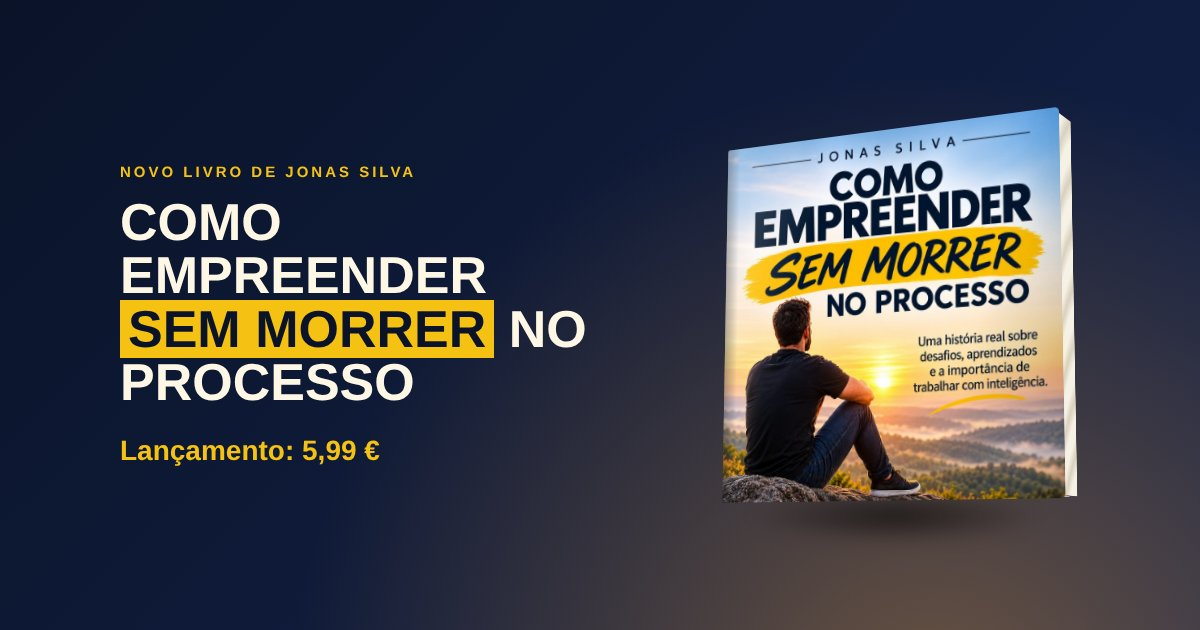
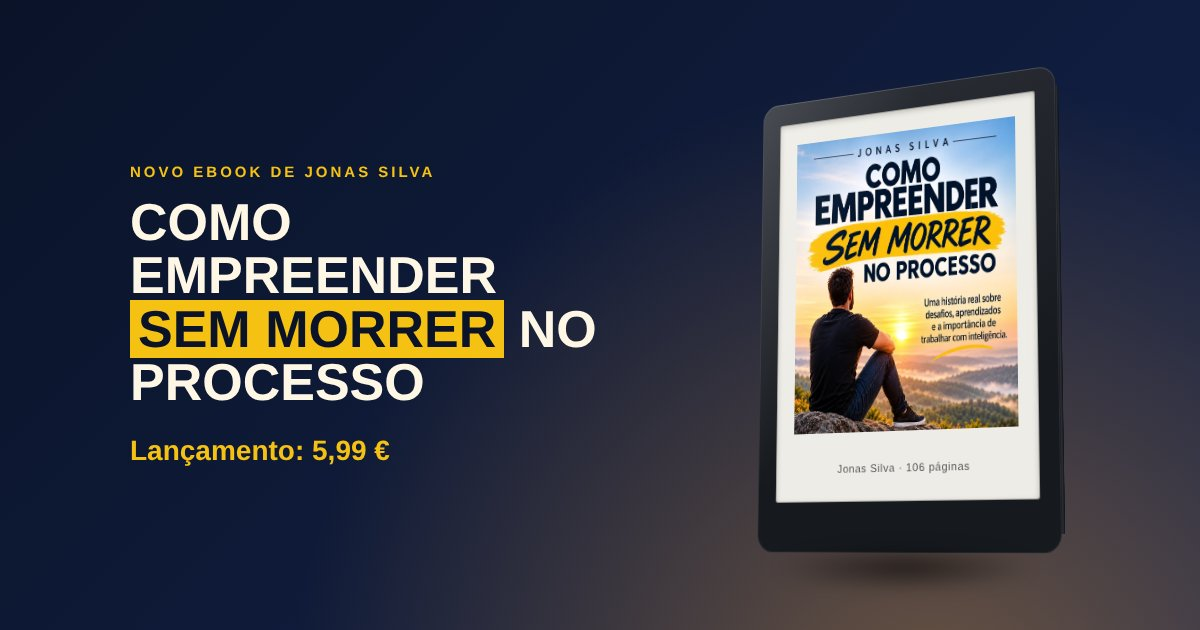
Livro: leitor digital no lugar do livro físico, sem secção de folhear
Claude-Session: https://claude.ai/code/session_01GxBHDtriGwGTrpEwiSHekm

Changed region(s): [[0.5858, 0.1206, 0.925, 0.9349], [0.0925, 0.2413, 0.4933, 0.6333], [0.0925, 0.6937, 0.3392, 0.754]]

diff --git a/livro/index.html b/livro/index.html
@@ -37,7 +37,8 @@ p{margin:0}
 .eyebrow{font-family:var(--ui);font-size:.74rem;font-weight:800;letter-spacing:.2em;text-transform:uppercase;color:var(--sun)}
 
 /* Abertura */
-.hero{background:linear-gradient(180deg,var(--night) 0%,var(--night-2) 100%)}
+.hero{min-height:calc(100vh - 70px);min-height:calc(100svh - 70px);display:flex;align-items:center;background:radial-gradient(circle at 75% 110%,rgba(255,170,60,.22),transparent 50%),linear-gradient(180deg,var(--night) 0%,var(--night-2) 100%)}
+.hero .wrap{width:100%}
 .hero .wrap{display:grid;grid-template-columns:minmax(0,1fr) minmax(0,1fr);gap:clamp(24px,5vw,56px);align-items:center;padding-block:clamp(36px,6vw,72px)}
 .copy{display:flex;flex-direction:column;gap:16px;min-width:0}
 .copy h1{font-size:clamp(2rem,4.4vw,3.2rem);font-weight:900;text-transform:uppercase;letter-spacing:-.015em;line-height:1}
@@ -54,72 +55,47 @@ p{margin:0}
 .btn:hover{transform:translateY(-2px);box-shadow:0 14px 30px -12px rgba(245,194,20,.85)}
 .btn:focus-visible{outline:3px solid var(--cream);outline-offset:3px}
 
-/* Livro 3D */
-.stage{display:flex;flex-direction:column;align-items:center;gap:18px;min-width:0;user-select:none;-webkit-user-select:none}
-.scene{--w:min(300px,64vw);--d:38px;position:relative;width:var(--w);height:var(--w);perspective:1500px;cursor:grab;touch-action:pan-y;transition:transform 1s cubic-bezier(.6,0,.2,1)}
+/* Leitor digital 3D */
+.stage{display:flex;flex-direction:column;align-items:center;gap:22px;min-width:0;user-select:none;-webkit-user-select:none}
+.scene{--w:min(270px,60vw);--h:calc(var(--w)*1.42);--d:12px;position:relative;width:var(--w);height:var(--h);perspective:1500px;cursor:grab;touch-action:pan-y}
 .scene.drag{cursor:grabbing}
-.scene.open{transform:translateX(24%) scale(.78)}
-.scene:focus-visible{outline:2px dashed var(--sun);outline-offset:14px}
+.scene:focus-visible{outline:2px dashed var(--sun);outline-offset:16px}
 .bk{position:absolute;inset:0;transform-style:preserve-3d;will-change:transform}
 .f{position:absolute;backface-visibility:hidden;-webkit-backface-visibility:hidden}
-.f.front{inset:0;transform-style:preserve-3d;transform-origin:left center;transform:translateZ(calc(var(--d)/2));transition:transform 1s cubic-bezier(.6,0,.2,1)}
-.open .f.front{transform:translateZ(calc(var(--d)/2)) rotateY(-155deg)}
-.f.front img{position:absolute;inset:0;width:100%;height:100%;display:block;border-radius:2px 5px 5px 2px;backface-visibility:hidden;-webkit-backface-visibility:hidden}
-.f.front .gloss{position:absolute;inset:0;border-radius:2px 5px 5px 2px;background:linear-gradient(105deg,rgba(255,255,255,.28) 0%,rgba(255,255,255,0) 28%,rgba(255,255,255,0) 72%,rgba(0,0,0,.18) 100%),linear-gradient(90deg,rgba(0,0,0,.35) 0,rgba(0,0,0,0) 4%);backface-visibility:hidden;-webkit-backface-visibility:hidden;pointer-events:none}
-.f.front .inner{position:absolute;inset:0;background:#f3eee2;transform:rotateY(180deg);backface-visibility:hidden;-webkit-backface-visibility:hidden;border-radius:5px 2px 2px 5px;display:flex;align-items:center;justify-content:center;font-family:var(--display);color:#0f1b33;font-weight:900;font-size:.9rem;letter-spacing:.2em;text-transform:uppercase}
-.f.page{inset:3px 4px 3px 0;transform:translateZ(calc(var(--d)/2 - 2px));background:#fbf8f1;border-radius:0 4px 4px 0;box-shadow:inset 18px 0 24px -16px rgba(0,0,0,.35);display:flex;flex-direction:column;justify-content:center;gap:14px;padding:12%;color:#0f1b33}
-.f.page q{font-family:var(--body);font-style:italic;font-size:1.2rem;line-height:1.4;quotes:"«" "»"}
-.f.page span{font-family:var(--ui);font-size:.72rem;font-weight:800;letter-spacing:.18em;text-transform:uppercase;color:#8a6a00}
-.f.back{inset:0;background:linear-gradient(135deg,#13224a,#0a1328);transform:rotateY(180deg) translateZ(calc(var(--d)/2));border-radius:5px 2px 2px 5px;display:flex;align-items:flex-end;padding:10%;color:var(--sun);font-family:var(--ui);font-weight:800;font-size:.75rem;letter-spacing:.2em}
-.f.spine{top:0;bottom:0;width:var(--d);left:calc(50% - var(--d)/2);transform:rotateY(-90deg) translateZ(calc(var(--w)/2));background:linear-gradient(90deg,#070e1f,#1a2c58 45%,#0d1830);display:flex;align-items:center;justify-content:center}
-.f.spine b{writing-mode:vertical-rl;transform:rotate(180deg);font-family:var(--display);font-weight:900;font-size:.6rem;letter-spacing:.12em;color:#fff;white-space:nowrap}
-.f.spine b i{font-style:normal;color:var(--sun)}
-.f.edge{top:3px;bottom:3px;width:calc(var(--d) - 4px);left:calc(50% - var(--d)/2 + 2px);transform:rotateY(90deg) translateZ(calc(var(--w)/2 - 4px));background:repeating-linear-gradient(90deg,#f6f1e5 0 2px,#d9d0bd 2px 3px)}
-.f.top,.f.bottom{left:0;right:4px;height:calc(var(--d) - 4px);top:calc(50% - var(--d)/2 + 2px);background:repeating-linear-gradient(0deg,#f6f1e5 0 2px,#d9d0bd 2px 3px)}
-.f.top{transform:rotateX(90deg) translateZ(calc(var(--w)/2 - 3px))}
-.f.bottom{transform:rotateX(-90deg) translateZ(calc(var(--w)/2 - 3px))}
-.floor{position:absolute;left:10%;right:10%;bottom:-12%;height:15%;background:radial-gradient(ellipse at center,rgba(0,0,0,.6),transparent 70%);filter:blur(8px);pointer-events:none}
+.f.front{inset:0;border-radius:18px;transform:translateZ(calc(var(--d)/2));background:linear-gradient(160deg,#2b2f36,#16191e 70%);box-shadow:inset 0 0 0 1px rgba(255,255,255,.08),inset 0 1px 0 rgba(255,255,255,.12);padding:7% 6.5% 15%}
+.f.front::after{content:"";position:absolute;inset:0;border-radius:18px;background:linear-gradient(115deg,rgba(255,255,255,.14) 0%,rgba(255,255,255,0) 35%);pointer-events:none}
+.screen{position:relative;width:100%;height:100%;border-radius:3px;background:#eeece6;overflow:hidden;box-shadow:inset 0 0 0 1px rgba(0,0,0,.25),inset 0 2px 6px rgba(0,0,0,.25)}
+.screen .s{position:absolute;inset:0;display:flex;flex-direction:column;transition:opacity .25s ease}
+.screen .s1{justify-content:center;gap:8%;padding:8% 7%}
+.screen .s1 img{width:100%;aspect-ratio:1/1;display:block;filter:saturate(.95) contrast(1.02)}
+.screen .s1 small,.screen .s2 small{font-family:var(--ui);font-size:calc(var(--w)*.034);color:#555;letter-spacing:.06em;text-align:center}
+.screen .s2{opacity:0;justify-content:center;gap:10%;padding:12% 11%;color:#1b1b1b}
+.screen .s2 .t{font-family:var(--ui);font-size:calc(var(--w)*.032);font-weight:700;letter-spacing:.14em;text-transform:uppercase;color:#666}
+.screen .s2 q{font-family:var(--body);font-size:calc(var(--w)*.068);line-height:1.45;quotes:"«" "»"}
+.screen .s2 p{font-family:var(--body);font-size:calc(var(--w)*.05);line-height:1.55;color:#333}
+.reading .screen .s1{opacity:0}.reading .screen .s2{opacity:1}
+.screen .ink{position:absolute;inset:0;background:#111;opacity:0;pointer-events:none}
+.screen .ink.go{animation:ink .32s steps(2,end)}
+@keyframes ink{0%{opacity:0}30%{opacity:1}100%{opacity:0}}
+.f.back{inset:0;border-radius:18px;background:linear-gradient(160deg,#25282e,#121418);transform:rotateY(180deg) translateZ(calc(var(--d)/2));box-shadow:inset 0 0 0 1px rgba(255,255,255,.06)}
+.f.side{top:18px;bottom:18px;width:var(--d);left:calc(50% - var(--d)/2);background:linear-gradient(90deg,#0e1013,#2a2e35,#0e1013)}
+.f.side.r{transform:rotateY(90deg) translateZ(calc(var(--w)/2 - 1px))}
+.f.side.l{transform:rotateY(-90deg) translateZ(calc(var(--w)/2 - 1px))}
+.f.cap{left:18px;right:18px;height:var(--d);top:calc(50% - var(--d)/2);background:linear-gradient(0deg,#0e1013,#2a2e35,#0e1013)}
+.f.cap.t{transform:rotateX(90deg) translateZ(calc(var(--h)/2 - 1px))}
+.f.cap.b{transform:rotateX(-90deg) translateZ(calc(var(--h)/2 - 1px))}
+.floor{position:absolute;left:10%;right:10%;bottom:-9%;height:10%;background:radial-gradient(ellipse at center,rgba(0,0,0,.6),transparent 70%);filter:blur(8px);pointer-events:none}
 .hint{font-family:var(--ui);font-size:.72rem;font-weight:700;letter-spacing:.14em;text-transform:uppercase;color:rgba(255,247,230,.5)}
-
-/* Folhear com o scroll */
-.flip{position:relative;height:320vh;background:var(--night-2)}
-.flip .pin{position:sticky;top:0;height:100vh;height:100svh;display:flex;flex-direction:column;align-items:center;justify-content:center;gap:clamp(16px,3vh,28px);overflow:hidden;padding-left:max(16px, env(safe-area-inset-left, 0px));padding-right:max(16px, env(safe-area-inset-right, 0px))}
-.flip h2{text-align:center;font-size:clamp(1.4rem,3.4vw,2.1rem);font-weight:900}
-.spread{--W:min(300px,44vw,46vh);position:relative;width:calc(var(--W)*2);height:var(--W);perspective:2200px}
-.leaf{position:absolute;left:50%;top:0;width:50%;height:100%;transform-style:preserve-3d;transform-origin:left center;will-change:transform}
-.side{position:absolute;inset:0;backface-visibility:hidden;-webkit-backface-visibility:hidden;overflow:hidden}
-.side.b{transform:rotateY(180deg)}
-.pg{background:#fbf8f1;color:#0f1b33;display:flex;flex-direction:column;justify-content:center;gap:calc(var(--W)*.04);padding:calc(var(--W)*.11) calc(var(--W)*.1)}
-.side.a.pg,.base .pg{border-radius:0 4px 4px 0;box-shadow:inset 14px 0 22px -14px rgba(0,0,0,.35)}
-.side.b.pg{border-radius:4px 0 0 4px;box-shadow:inset -14px 0 22px -14px rgba(0,0,0,.35)}
-.pg .k{font-family:var(--ui);font-size:calc(var(--W)*.04);font-weight:800;letter-spacing:.18em;text-transform:uppercase;color:#8a6a00}
-.pg h4{font-weight:900;font-size:calc(var(--W)*.088)}
-.pg p{font-family:var(--body);font-size:calc(var(--W)*.052);line-height:1.45;color:#3c4766}
-.pg q{font-family:var(--body);font-style:italic;font-size:calc(var(--W)*.074);line-height:1.35;quotes:"«" "»"}
-.pg .big{font-family:var(--display);font-weight:900;font-size:calc(var(--W)*.26);line-height:.9}
-.pg .num{position:absolute;bottom:calc(var(--W)*.05);font-family:var(--ui);font-size:calc(var(--W)*.036);color:#9aa3b8}
-.side.a .num{right:calc(var(--W)*.07)}.side.b .num{left:calc(var(--W)*.07)}
-.cov img{width:100%;height:100%;display:block;border-radius:2px 5px 5px 2px}
-.cov::after{content:"";position:absolute;inset:0;background:linear-gradient(90deg,rgba(0,0,0,.35),transparent 5%),linear-gradient(105deg,rgba(255,255,255,.25),transparent 30%)}
-.base{position:absolute;left:50%;top:0;width:50%;height:100%}
-.base .pg{height:100%}
-.base .btn{font-size:calc(var(--W)*.048);padding:calc(var(--W)*.045) calc(var(--W)*.06);align-self:flex-start;border-radius:calc(var(--W)*.02)}
-.shadow2{position:absolute;left:8%;right:8%;bottom:-10%;height:12%;background:radial-gradient(ellipse at center,rgba(0,0,0,.55),transparent 70%);filter:blur(8px)}
-.bar{width:min(280px,64vw);height:3px;background:rgba(255,247,230,.15);border-radius:3px;overflow:hidden}
-.bar i{display:block;height:100%;background:var(--sun);transform-origin:left;transform:scaleX(0)}
 
 footer .wrap{padding-block:24px;font-family:var(--ui);font-size:.8rem;color:rgba(255,247,230,.5);display:flex;flex-wrap:wrap;justify-content:space-between;gap:8px;border-top:1px solid rgba(255,255,255,.08)}
 
 @media (max-width:760px){
   .hero .wrap{grid-template-columns:minmax(0,1fr);text-align:left}
   .stage{order:-1}
-  .scene{--w:min(220px,58vw);--d:28px}
-  .scene.open{transform:translateX(26%) scale(.66)}
-  .spread{--W:min(46vw,40vh)}
+  .scene{--w:min(200px,52vw);--d:10px}
 }
 @media (prefers-reduced-motion:reduce){
-  .scene,.f.front,.btn{transition:none}
-  .flip{height:auto}.flip .pin{position:relative;height:auto;padding-block:56px}
+  .screen .s,.btn{transition:none}
 }
 </style>
 
@@ -138,59 +114,25 @@ footer .wrap{padding-block:24px;font-family:var(--ui);font-size:.8rem;color:rgba
       <p class="safe">Pagamento seguro pela Hotmart · 7 dias de garantia</p>
     </div>
     <div class="stage">
-      <div class="scene" id="scene" role="button" tabindex="0" aria-label="Livro em 3D. Arraste para rodar, toque para abrir a capa.">
+      <div class="scene" id="scene" role="button" tabindex="0" aria-label="Leitor digital com o livro. Arraste para rodar, toque para virar a página.">
         <div class="bk" id="bk">
-          <div class="f page"><q>Trabalhar mais não é o caminho. Trabalhar com inteligência é.</q><span>Jonas Silva</span></div>
-          <div class="f front">
-            <img src="capa.jpg" width="900" height="900" alt="Capa do livro Como Empreender Sem Morrer no Processo, de Jonas Silva" draggable="false">
-            <div class="gloss"></div>
-            <div class="inner">Jonas Silva</div>
-          </div>
-          <div class="f back">HUB ADVANCE</div>
-          <div class="f spine"><b>COMO EMPREENDER <i>SEM MORRER</i> NO PROCESSO · JONAS SILVA</b></div>
-          <div class="f edge"></div>
-          <div class="f top"></div>
-          <div class="f bottom"></div>
+          <div class="f front"><div class="screen">
+            <div class="s s1"><img src="capa.jpg" width="900" height="900" alt="Capa do livro Como Empreender Sem Morrer no Processo, de Jonas Silva" draggable="false"><small>Jonas Silva · 106 páginas</small></div>
+            <div class="s s2"><span class="t">Capítulo 1</span><q>Trabalhar mais não é o caminho. Trabalhar com inteligência é.</q><p>Esta é a história real do que me levou ao limite como empresário e do que mudei para continuar.</p><small>1 de 106</small></div>
+            <div class="ink" id="ink"></div>
+          </div></div>
+          <div class="f back"></div>
+          <div class="f side r"></div><div class="f side l"></div>
+          <div class="f cap t"></div><div class="f cap b"></div>
         </div>
         <div class="floor"></div>
       </div>
-      <span class="hint">Arraste para rodar · toque para abrir</span>
+      <span class="hint">Arraste para rodar · toque para ler</span>
     </div>
   </div>
 </header>
 
-<section class="flip" id="flip" aria-label="Folheie o livro">
-  <div class="pin">
-    <span class="eyebrow">Folheie o livro</span>
-    <h2>Desça a página e veja o que tem lá dentro</h2>
-    <div class="spread" id="spread">
-      <div class="shadow2"></div>
-      <div class="base"><div class="side pg">
-        <span class="k">Lançamento</span>
-        <h4>Leve o livro por <span data-now>5,99 €</span></h4>
-        <p data-until>Até domingo, 15 de novembro. Depois, 9,99 €.</p>
-        <a class="btn buy" href="https://pay.hotmart.com/J108325113F">Quero o meu livro →</a>
-      </div></div>
-      <div class="leaf">
-        <div class="side a cov"><img src="capa.jpg" alt="" width="900" height="900" draggable="false"></div>
-        <div class="side b pg"><span class="k">Jonas Silva</span><h4>Como empreender sem morrer no processo</h4><p>Uma história real sobre desafios, aprendizados e a importância de trabalhar com inteligência.</p></div>
-      </div>
-      <div class="leaf">
-        <div class="side a pg"><q>Trabalhar mais não é o caminho. Trabalhar com inteligência é.</q><span class="k">Jonas Silva</span><span class="num">1</span></div>
-        <div class="side b pg"><span class="k">Para quem é</span><h4>Para quem tem um negócio e sente que o negócio o tem a si.</h4><span class="num">2</span></div>
-      </div>
-      <div class="leaf">
-        <div class="side a pg"><span class="big">10</span><h4>capítulos com método</h4><p>Cada um termina com uma ferramenta pronta a usar no dia seguinte.</p><span class="num">3</span></div>
-        <div class="side b pg"><span class="big">6</span><h4>As Seis Mudanças</h4><p>As mudanças que separam quem cresce de quem se esgota.</p><span class="num">4</span></div>
-      </div>
-      <div class="leaf">
-        <div class="side a pg"><span class="big">106</span><h4>páginas diretas</h4><p>Lê-se num fim de semana e consulta-se durante anos.</p><span class="num">5</span></div>
-        <div class="side b pg"><span class="k">Garantia</span><h4>7 dias para ler sem risco</h4><p>Se não for para si, devolvemos o valor total pela Hotmart.</p><span class="num">6</span></div>
-      </div>
-    </div>
-    <div class="bar"><i id="flipbar"></i></div>
-  </div>
-</section>
+
 
 <footer>
   <div class="wrap">
@@ -222,7 +164,7 @@ var FIM_LANCAMENTO = "2026-11-15T23:59:59Z";               // fim do preço de 5
       ry+=vy;rx+=vx;vy*=.94;vx*=.9;
       if(Math.abs(vy)<.05&&Math.abs(vx)<.05){
         var target=-28+Math.sin((ts-t0)/1600)*10,tx=8+Math.sin((ts-t0)/2300)*3;
-        if(!scene.classList.contains("open")){ry+=(target-((ry%360+540)%360-180))*.02;}
+        ry+=(target-((ry%360+540)%360-180))*.02;
         rx+=(tx-rx)*.04;
       }
     }
@@ -234,25 +176,9 @@ var FIM_LANCAMENTO = "2026-11-15T23:59:59Z";               // fim do preço de 5
   scene.addEventListener("pointermove",function(e){if(!dragging)return;var dx=e.clientX-lx,dy=e.clientY-ly;lx=e.clientX;ly=e.clientY;moved+=Math.abs(dx)+Math.abs(dy);vy=dx*.45;vx=-dy*.25;ry+=vy;rx+=vx;render();});
   scene.addEventListener("pointerup",function(){if(!dragging)return;dragging=false;scene.classList.remove("drag");if(moved<6)toggle();});
   scene.addEventListener("pointercancel",function(){dragging=false;scene.classList.remove("drag");});
-  function toggle(){if(scene.classList.toggle("open")){ry=-18;vy=0;}render();}
+  var ink=document.getElementById("ink");function toggle(){if(!reduce){ink.classList.remove("go");void ink.offsetWidth;ink.classList.add("go");}setTimeout(function(){scene.classList.toggle("reading");},reduce?0:110);}
   scene.addEventListener("keydown",function(e){if(e.key==="Enter"||e.key===" "){e.preventDefault();toggle();}});
 
-  /* Folhear o livro com o scroll */
-  var flip=document.getElementById("flip"),spread=document.getElementById("spread"),leaves=$$(".flip .leaf"),fbar=document.getElementById("flipbar"),N=leaves.length;
-  function onFlip(){
-    var r=flip.getBoundingClientRect(),span=r.height-innerHeight;
-    var p=reduce?1:(span>0?Math.min(Math.max(-r.top/span,0),1):1);
-    var q=Math.min(p*1.12,1)*N;
-    leaves.forEach(function(l,i){
-      var t=Math.min(Math.max(q-i,0),1);t=t<.5?2*t*t:1-Math.pow(-2*t+2,2)/2;
-      l.style.transform="rotateY("+(-180*t)+"deg)";
-      l.style.zIndex=t>.5?(10+i):(10+N-i);
-    });
-    var o=Math.min(Math.max(q,0),1);
-    spread.style.transform="translateX("+(-25*(1-o))+"%) rotateX("+(10*(1-p))+"deg)";
-    fbar.style.transform="scaleX("+p+")";
-  }
-  addEventListener("scroll",onFlip,{passive:true});addEventListener("resize",onFlip);onFlip();
 })();
 </script>
 
